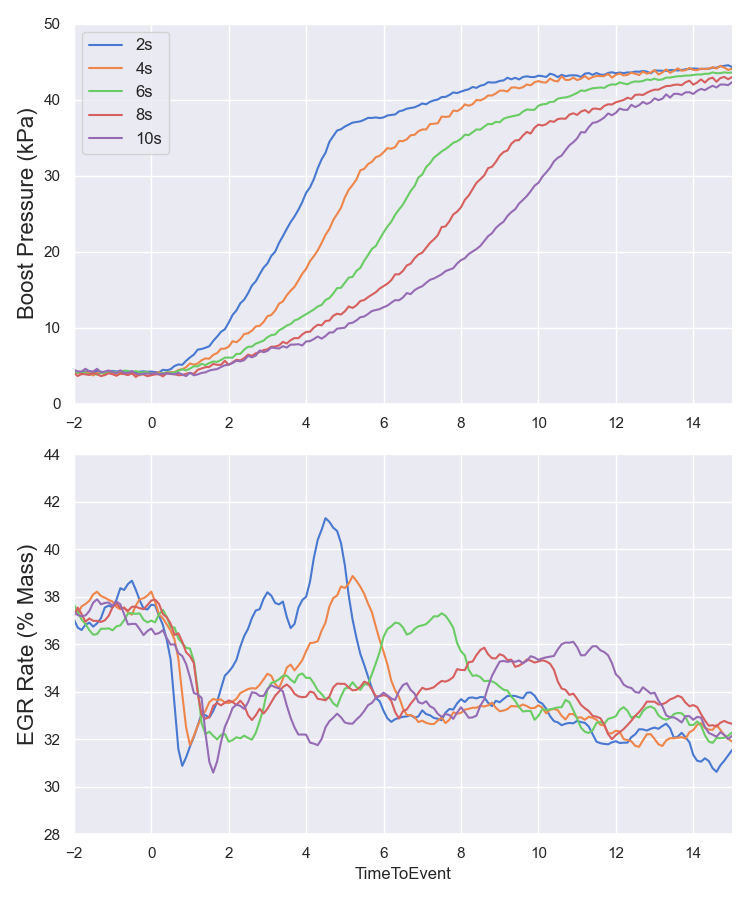
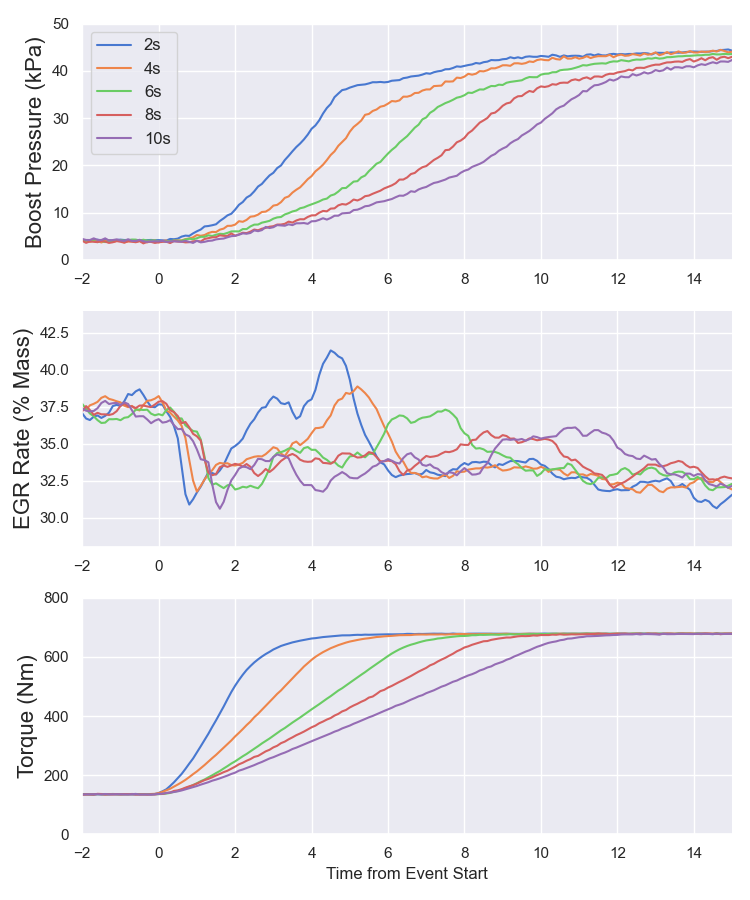
Time refactor

diff --git a/main.py b/main.py
@@ -51,7 +51,7 @@ def plot_torque_curve():
                        length_includes_head=length_includes_head)
     torque_graph.annotate(text='Load', xy=(1000, 1.3558179483 * 280), fontsize=common_annotation_font_size)
     # Load
-    torque_graph.arrow(x=1200, y=1.3558179483 * 500, dx=800, dy=0, width=arrow_widths,head_width=arrow_head_widths,
+    torque_graph.arrow(x=1200, y=1.3558179483 * 500, dx=800, dy=0, width=arrow_widths, head_width=arrow_head_widths,
                        head_length=arrow_head_lengths,
                        length_includes_head=length_includes_head)
     torque_graph.annotate(text='Accel', xy=(1450, 1.3558179483 * 520), fontsize=common_annotation_font_size)
@@ -236,6 +236,56 @@ def plot_transient_time_comparison_of_boost_and_egr(transient_type, style, custo
 
     fig.savefig("figures/" + transient_type + "_transient_time_comparison.png")
     plt.show(block=False)
+
+
+def plot_transient_time_comparison_of_boost_and_egr_and_load(transient_type, style, custom_x_lim, custom_boost_y_lim, custom_egr_y_lim):
+    sns.set_style(style)
+
+    transient_times = [2, 4, 6, 8, 10]
+
+    x_start = custom_x_lim[0]
+    x_end = custom_x_lim[-1]
+
+    time_data = []
+    for time in transient_times:
+        time_data.append(pd.read_csv(r"./data/" + transient_type + "Comparison_" + str(time) +
+                                                "SecondTransient_with_BaselineControl.csv",
+                                                sep=r'\s*,\s*', header=0, engine='python'))
+
+    fig, (subplot0, subplot1, subplot2) = plt.subplots(3, 1, figsize=(7.5, 9))
+
+    for idx in range(len(transient_times)):
+        sns.lineplot(x=time_data[idx]['TimeToEvent'], y=time_data[idx]["Boost (kPa)"],
+                     label=str(transient_times[idx]) + "s", ax=subplot0, legend=False)
+    subplot0.set_xlabel(None)
+    subplot0.set_xlim([x_start, x_end])
+    subplot0.set_ylabel("Boost Pressure (kPa)", fontsize=common_label_font_size)
+    subplot0.set_ylim(custom_boost_y_lim)
+
+    for idx in range(len(transient_times)):
+        sns.lineplot(x=time_data[idx]['TimeToEvent'], y=time_data[idx]["EGR Meter"],
+                     label=str(transient_times[idx]) + "s", ax=subplot1, legend=False)
+    subplot1.set_xlabel(None)
+    subplot1.set_xlim([x_start, x_end])
+    subplot1.set_ylabel("EGR Rate (% Mass)", fontsize=common_label_font_size)
+    subplot1.set_ylim(custom_egr_y_lim)
+
+    for idx in range(len(transient_times)):
+        sns.lineplot(x=time_data[idx]['TimeToEvent'], y=lbft_to_Nm(time_data[idx]["Torque"]),
+                     label=str(transient_times[idx]) + "s", ax=subplot2, legend=False)
+    subplot2.set_xlabel("Time from Event Start")
+    subplot2.set_xlim([x_start, x_end])
+    subplot2.set_ylabel("Torque (Nm)", fontsize=common_label_font_size)
+    subplot2.set_ylim([0, 800])
+
+    subplot0.legend(fontsize=common_legend_font_size)
+
+    plt.tight_layout()
+    sns.despine()
+
+    fig.savefig("figures/" + transient_type + "_transient_time_comparison.png")
+    plt.show(block=False)
+
 
 def plot_transient_time_comparison_boost(transient_type, style):
     sns.set_style(style)
@@ -1219,6 +1269,7 @@ if __name__ == '__main__':
     # plot_transient_time_comparison_of_boost_and_egr("SpeedLoad", plot_style, [-2, 12], [0, 120], [3, 35])
     #
     # plot_transient_time_comparison_of_boost_and_egr("Load", plot_style, [-2, 15], [0, 50], [28, 44])
+    plot_transient_time_comparison_of_boost_and_egr_and_load("Load", plot_style, [-2, 15], [0, 50], [28, 44])
     #
     # plot_transient_time_comparison_boost("Load", plot_style)
     #
@@ -1278,9 +1329,9 @@ if __name__ == '__main__':
     #
     # plot_load_point_policy_comparison_bsfc(best_load_policies, "Load", plot_style, custom_y_limits=[100, 550],
     #                                        number_legend_columns=3)
-
-    plot_load_point_policy_comparison_bspm(best_load_policies, "Load", plot_style, custom_y_limits=[0.01, 20],
-                                           number_legend_columns=2)
+    #
+    # plot_load_point_policy_comparison_bspm(best_load_policies, "Load", plot_style, custom_y_limits=[0.01, 20],
+    #                                        number_legend_columns=2)
 
     # plot_load_point_policy_comparison_bsno(best_load_policies, "Load", plot_style)
 
